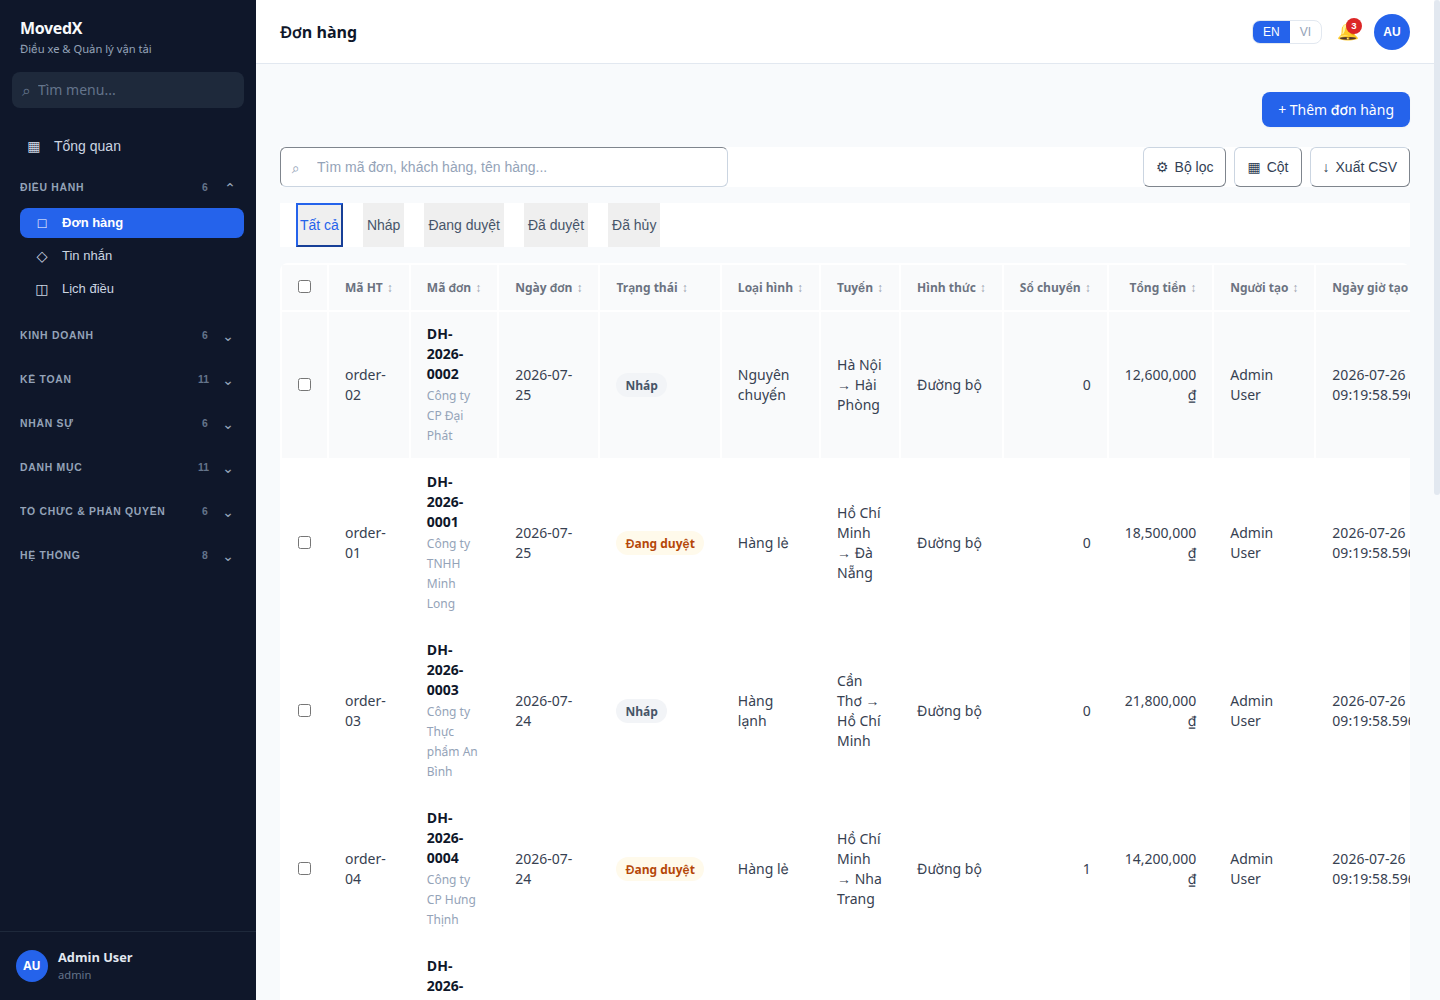
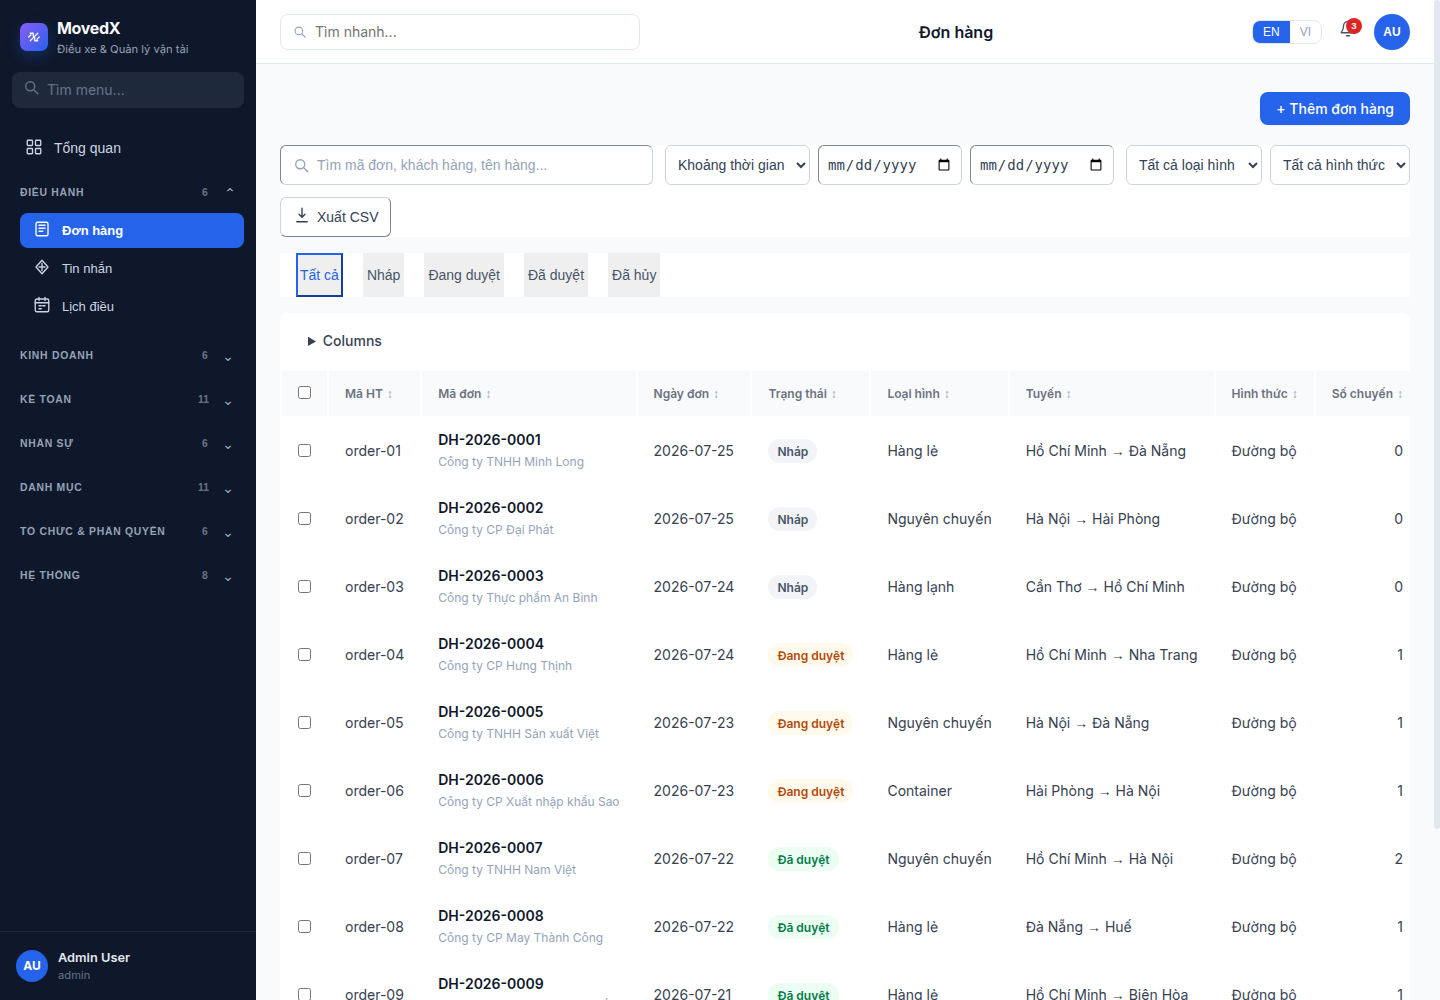
Keep resource grids dense like MovedX

diff --git a/lib/components/DataGrid.ts b/lib/components/DataGrid.ts
@@ -231,7 +231,11 @@ export class DataGrid extends BaseComponent {
         for (const column of visibleColumns) {
           const align = column.align === 'right' ? 'text-right' : column.align === 'center' ? 'text-center' : 'text-left';
           const value = row[column.field];
-          const cell = html.take(tr).tdata.className(`px-4 py-3 text-sm text-gray-700 ${align}`).getContext();
+          const cell = html.take(tr).tdata.className(`max-w-[240px] overflow-hidden text-ellipsis whitespace-nowrap px-4 py-3 text-sm text-gray-700 ${align}`).getContext();
+          cell.style.maxWidth = '240px';
+          cell.style.overflow = 'hidden';
+          cell.style.textOverflow = 'ellipsis';
+          cell.style.whiteSpace = 'nowrap';
           if (column.rowActions?.length) {
             const actionBar = html.take(cell).div.className('flex items-center justify-end gap-1').getContext();
             for (const action of column.rowActions) {

diff --git a/lib/test/cases/data-grid.test.ts b/lib/test/cases/data-grid.test.ts
@@ -95,6 +95,18 @@ describe('DataGrid', () => {
     expect(container.querySelector('.status-chip.ready')?.textContent).toBe('Ready');
   });
 
+  it('keeps dense rows by truncating long cell content', () => {
+    const grid = new DataGrid('orders', {
+      rows: [{ id: 'long', code: 'ORDER-WITH-A-LONG-ROUTE-NAME' }],
+    }, [{ field: 'code', label: 'Route' }]);
+    const container = mount(grid);
+    const cell = container.querySelector('tbody td') as HTMLElement;
+
+    expect(cell.className).toContain('text-ellipsis');
+    expect(cell.style.whiteSpace).toBe('nowrap');
+    expect(cell.style.maxWidth).toBe('240px');
+  });
+
   it('passes the selected rows to default actions', async () => {
     const grid = new DataGrid('orders', {
       rows,

diff --git a/.scratch/movedx-feature-parity/evidence/completion-audit.md b/.scratch/movedx-feature-parity/evidence/completion-audit.md
@@ -11,7 +11,7 @@ Audited 2026-07-26 against `.scratch/movedx-feature-parity/PRD.md`.
 - Every route has local desktop/tablet evidence, including the five provisional legacy pages.
 - Every registered SPA path has a page-loader mapping and serves the shell on direct navigation; deep-link 404s are covered by the route audit.
 - A disposable fresh-database workflow audit completes 13 representative named transitions across orders, quotes, financial documents, payroll, and trip cancellation.
-- Named workflow actions, field allowlists, and audit writes remain server-authorized; framework tests pass 139/139.
+- Named workflow actions, field allowlists, and audit writes remain server-authorized; framework tests pass 140/140.
 - Dashboard period controls match the supplied reference states with segmented `Tháng này`, `Tháng trước`, `Quý này`, `Năm nay`, and `12 tháng` presets at desktop and tablet widths.
 - Dashboard KPI information architecture now matches the supplied reference sections, including the seven-card task row, six-card operating/financial/HR rows, and VND financial formatting.
 

diff --git a/.scratch/movedx-feature-parity/evidence/orders/controls.md b/.scratch/movedx-feature-parity/evidence/orders/controls.md
@@ -34,6 +34,8 @@ be recaptured from the read-only tenant before final visual-parity signoff.
 - [x] 1440 x 1000 and 1024 x 768 have no document/outlet overflow; the dense
   grid owns horizontal scrolling.
 - [x] Browser console contains no errors after transition and refresh.
+- [x] Shared DataGrid keeps list rows dense with single-line truncation for long
+  customer, route, and metadata cells while retaining horizontal overflow.
 
 ## Local evidence
 
